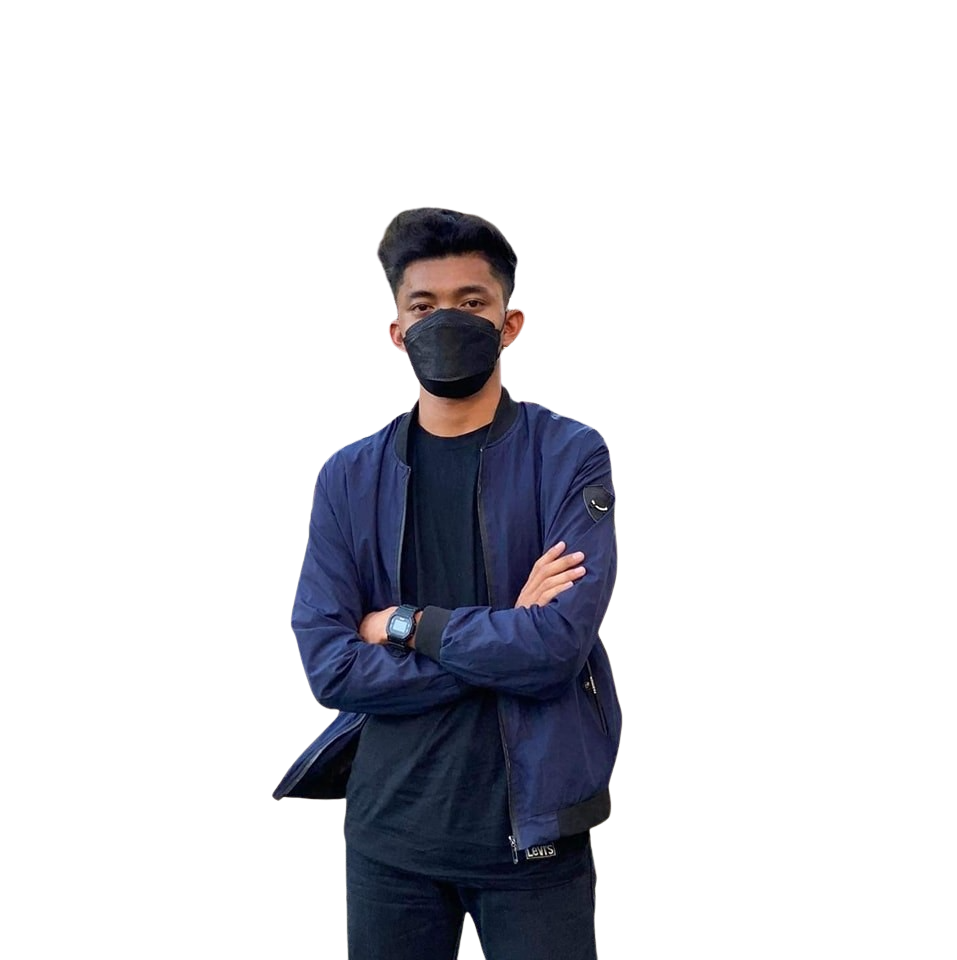
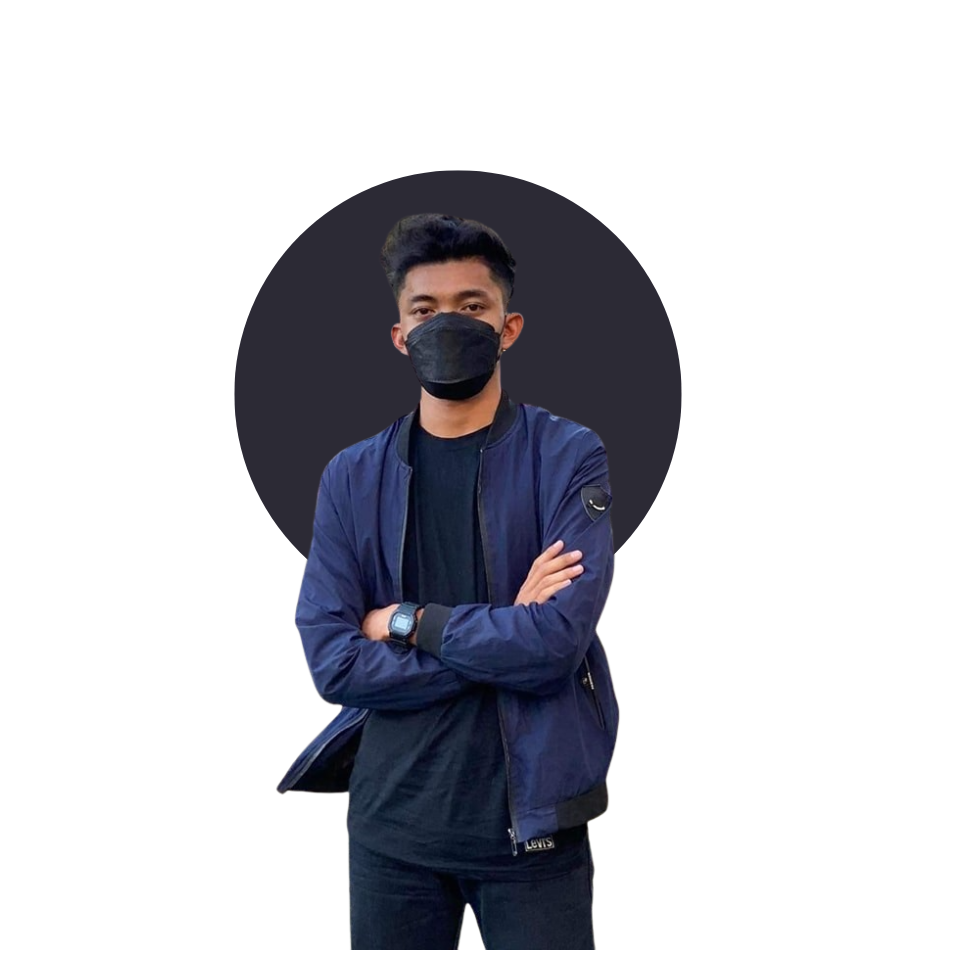
Build hero block component.

diff --git a/src/index.html b/src/index.html
@@ -11,46 +11,44 @@
     <title>Ken-Arts</title>
   </head>
 </body>
-  <section class="hero">
-    <div class="grid grid--1x2">
-      <div class="hero__header" style="border: 2px solid">
-        <div class="hero__content">
-          <p class="greetings">Hi, I am</p>
-          <h1>Kenneth Villarama</h1>
-          <h2 class="subtitle">I'm open for commisions</h2>
-          <p class="message">I can do solo, couple and family portraits, pet paintings available in any sizes. You can see below the list of my works. Just contact me if you're interested.</p>
-        </div>
 
-        <button class="btn btn--outline">Contact Me</button>
-        
-        <div class="social-links">
-          <a href="/">
-            <svg class="icon">
-              <use href="assets/icons/_sprite.svg#menu"></use>
-            </svg>
-          </a>
-          <a href="/">
-            <svg class="icon">
-              <use href="assets/icons/_sprite.svg#menu"></use>
-            </svg>
-          </a>
-          <a href="/">
-            <svg class="icon">
-              <use href="assets/icons/_sprite.svg#menu"></use>
-            </svg>
-          </a>
-        </div>
+<section class="block hero">
+  <div class="grid grid--1x2">
 
-      </div>
-      <div class="hero__img">
-        <picture>
-          <img src="assets/images/homepage/display-picture.png" alt="">
-        </picture>
-      </div>
+    <div class="hero__content">
+      <p class="greetings">Hi, I am</p>
+      <h1>Kenneth Villarama</h1>
+      <h2 class="subtitle">I'm open for commisions</h2>
+      <p class="message">
+        I can do portraits and paintings for solo, couple, family and pet, available in
+        any sizes. You can see below the list of my works. Just contact me if
+        you're interested.
+      </p>
+    </div>
+   
+    <div class="hero__img">
+      <picture>
+        <img src="assets/images/homepage/display-picture.png" alt="" />
+      </picture>
     </div>
 
-  </section>
+    <div class="hero__contact">
+      <button class="btn btn--plain">Contact me</button>
+
+      <div class="social-links">
+        <a href="/">
+          <img src="assets/icons/facebook.svg" alt="" class="icon" />
+        </a>
+        <a href="/">
+          <img src="assets/icons/instagram.svg" alt="" class="icon" />
+        </a>
+        <a href="/">
+          <img src="assets/icons/facebook-messenger.svg" alt="" class="icon" />
+        </a> 
+    </div>
+
+  </div>
+</section>
 
 </body>
-
 </html>

diff --git a/src/sass/hero.scss b/src/sass/hero.scss
@@ -1,0 +1,61 @@
+@use '../sass/colors' as *;
+
+.hero > .grid{
+    gap: 1rem;
+}
+
+.hero__content{
+    display: flex;
+    flex-direction: column;
+    text-align: center;
+    align-self: center;
+    padding: 1rem;
+    
+
+    h1{
+        color: $accent-color;
+    }
+
+    .message{
+        padding: 0 1rem;
+        max-width: 48rem;
+        margin: 0 auto;
+    }
+
+}
+
+.hero__img{
+
+    overflow: hidden;
+    img{
+        transform: scale(1.5) translateX(10px);
+    }
+}
+
+.hero__contact{
+    display: grid;
+    justify-content: center;
+
+    .social-links{
+        display: flex;
+        margin: 1rem 0;
+
+        .icon{
+            margin: 0 1rem;
+            transition: 0.15s;
+        }
+
+        .icon:hover{
+            transform: scale(0.8);
+        }
+    }
+}
+
+
+@media (min-width: 768px) {
+    .hero__img{
+        grid-row-start: span 2;
+
+    }
+
+}

diff --git a/src/sass/_typography.scss b/src/sass/_typography.scss
@@ -1,12 +1,56 @@
+@use '../sass/colors' as *;
 @import url('https://fonts.googleapis.com/css2?family=Inter:wght@400;700&display=swap');
 
 
-*{
-  font-family: 'Inter', sans-serif;
-  font-size: 1.2rem;
+::selection{
+  background-color: $accent-color;
+  color: #fff;
+}
+
+body{
+  font-family: 'Inter', Arial, Helvetica, sans-serif;
+  font-size: 1.5rem;
+  line-height: 1.5;
+  color: $paragraph-color;
+}
+
+h1,h2,h3{
+  color: $heading-color;
+  margin: 1rem 0;
+  line-height: 1.1;
+}
+
+h1{
+  font-size: 5rem; 
+}
+
+h2{
+  font-size: 2.2rem;
 }
 
 h3{
-    font-size: 2rem;
+  font-size: 2rem;
 }
 
+p{
+  margin-top: 0;
+}
+
+@media screen and (min-width: 1024px){
+
+  body{
+      font-size: 2rem;
+  }
+
+  h1{
+      font-size: 8rem;
+  }
+
+  h2{
+      font-size: 3rem;
+  }
+  
+  h3{
+      font-size: 2.4rem;
+  }
+}

diff --git a/src/components/hero-block.html b/src/components/hero-block.html
@@ -16,19 +16,13 @@
 
       <div class="social-links">
         <a href="/">
-          <svg class="icon">
-            <use href="assets/icons/_sprite.svg#menu"></use>
-          </svg>
+          <img src="assets/icons/facebook.svg" alt="" class="icon" />
         </a>
         <a href="/">
-          <svg class="icon">
-            <use href="assets/icons/_sprite.svg#menu"></use>
-          </svg>
+          <img src="assets/icons/instagram.svg" alt="" class="icon" />
         </a>
         <a href="/">
-          <svg class="icon">
-            <use href="assets/icons/_sprite.svg#menu"></use>
-          </svg>
+          <img src="assets/icons/facebook-messenger.svg" alt="" class="icon" />
         </a>
       </div>
     </div>

diff --git a/src/sass/_button.scss b/src/sass/_button.scss
@@ -1,15 +1,36 @@
+@use '../sass/colors' as *;
+
 .btn{
     border-radius: 5px;
-    padding: 1rem 3rem;
     border: none;
-}
+    cursor: pointer;
+    font-size: 1rem;
+    font-weight: bold;
+    margin: 2rem 0;
+    outline: 0;
+    padding: 1.5rem 2vw;
+    text-align: center;
+    text-transform: uppercase;
+    white-space: nowrap;
+}   
 
 .btn--plain{
-    background: #FFFFFF;
+    background: $accent-color;
+    color: #FFFFFF;
+
+    &:hover{
+        background-color: hsl(357, 92%, 40%);
+    }
 }
+
 
 .btn--transparent{
     background-color: hsla(0, 0, 0, 0.2);
     color: #FFFFFF;
 }
 
+@media (min-width: 1024px) {
+    .btn{
+        font-size: 1.5rem;
+    }
+}

diff --git a/src/components/navigation-block.html b/src/components/navigation-block.html
@@ -3,9 +3,12 @@
     <a href="/" class="nav__brand">
       <img src="assets/icons/kenarts.svg" alt="" />
     </a>
-    <svg class="icon icon--white nav__toggle">
-      <use href="assets/icons/_sprite.svg#menu"></use>
-    </svg>
+
+    <img
+      class="icon icon--white nav__toggle"
+      src="assets/icons/kenarts.svg"
+      alt=""
+    />
 
     <ul class="collapsible__content nav__list">
       <li class="nav__item"><a href="#">Artworks</a></li>

diff --git a/src/sass/_icon.scss b/src/sass/_icon.scss
@@ -5,6 +5,11 @@
     width: 35px;
 }
 
+.icon--small{
+    height: 25px;
+    width: 25px;
+}
+
 // Colors
 
 .icon--white{
@@ -13,9 +18,10 @@
 
 // Variations
 
-.icon-container{
+.icon--container{
     align-items: center;
     background-color: #f3f9fa;
+    border: 3px solid red;
     border-radius: 100%;
     display: inline-flex;
     height: 64px;

diff --git a/src/sass/_layout.scss b/src/sass/_layout.scss
@@ -2,15 +2,10 @@
     padding: 2rem;
 }
 
-.container{
-max-width: 1440px;
-margin: 0 auto;
-}
-
 .grid{
 display: grid;
 
-@media (min-width:780px) {
+@media (min-width:768px) {
     &--1x2{
     grid-template-columns: repeat(2, 1fr);
     }

diff --git a/src/sass/_colors.scss b/src/sass/_colors.scss
@@ -1,3 +1,6 @@
-$primary-color: #e50914;
-$bg-color: #131313;
+$primary-color: #2F2E36;
+$secondary-color: #2C2A35;
+$accent-color: #e50914;
+$heading-color: #D8D8D8;
+$paragraph-color: #969695;
 

diff --git a/src/sass/styles.scss b/src/sass/styles.scss
@@ -1,8 +1,8 @@
 @use '../sass' as *;
 
 body {
-   background-color: hsl(0, 0%, 100%);
-   color: black;
+   background-color: $primary-color;
+   color: $paragraph-color;
   }
 
 

diff --git a/src/sass/_index.scss b/src/sass/_index.scss
@@ -8,5 +8,7 @@
 
 @forward '../sass/navigation';
 @forward '../sass/carousel';
+@forward '../sass/button';
+@forward '../sass/hero';
 
 
